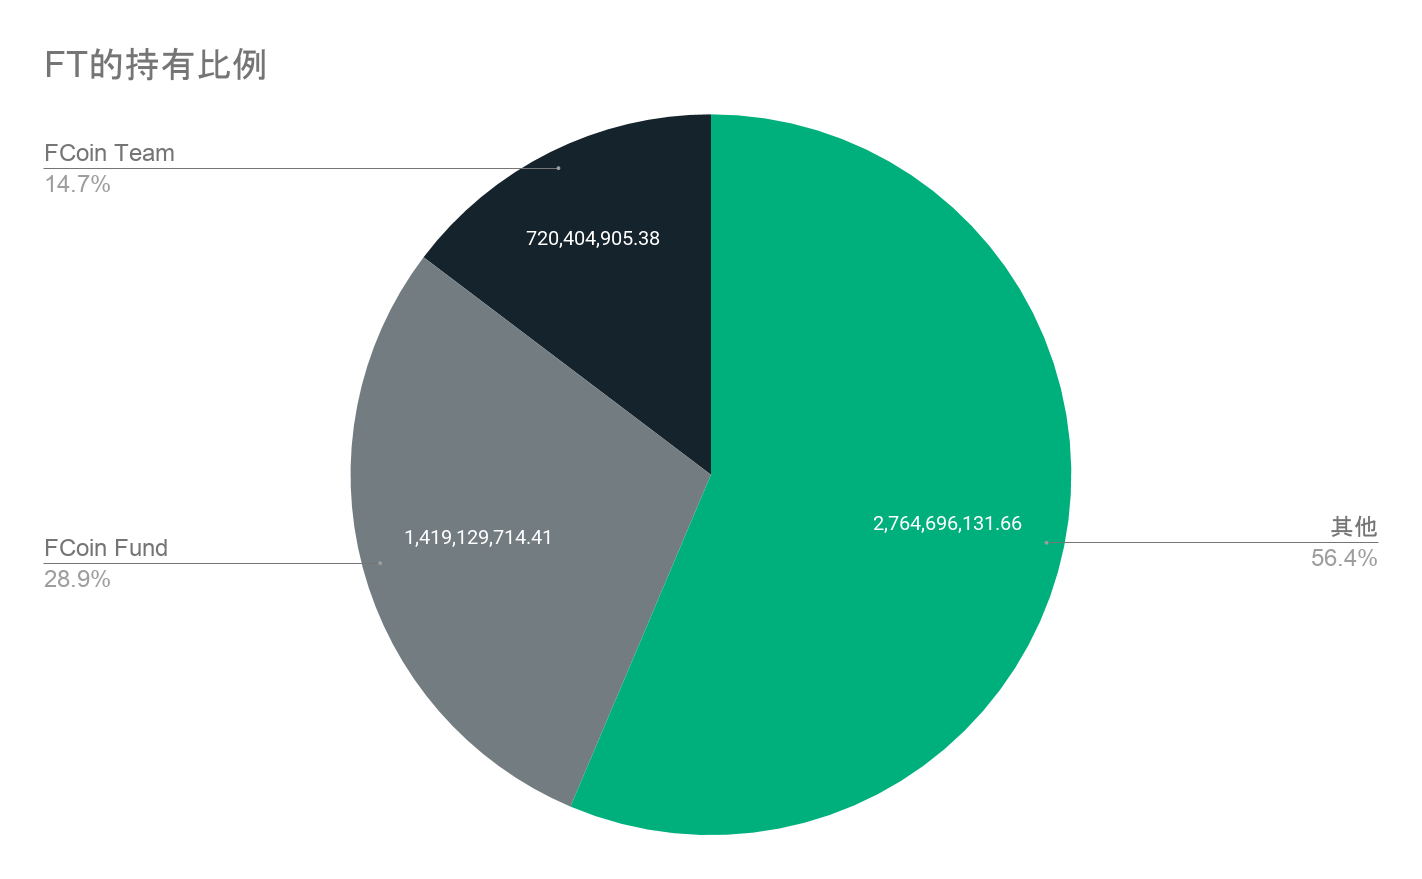
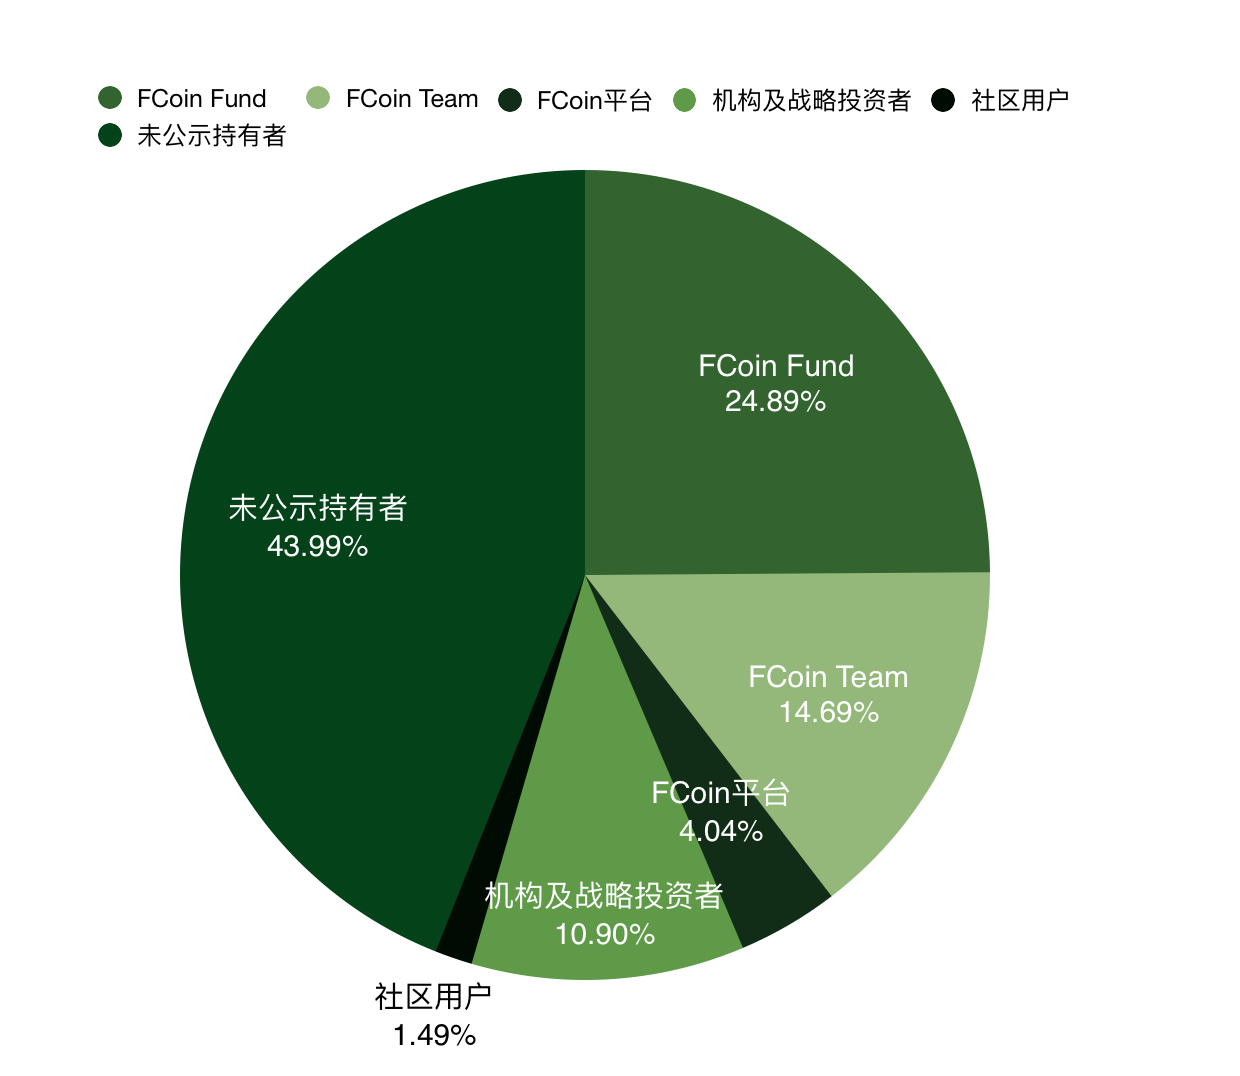
FT保有数のグラフを修正

diff --git a/docs/cn/about-mining.md b/docs/cn/about-mining.md
@@ -267,7 +267,7 @@ FT的发放数量会在投票活动时发布。
 
 ![FT的持有比例](./images/ft-share.png)
 
-*图像中的数据为截止2019年4月末的FT持有数量。
+*图像中的数据为截止2019年6月的FT持有数量。
  - [FCoin创业团队FT锁仓地址](https://etherscan.io/token/0xd37532d304214d588aeeac4c365e8f1d72e2304a?a=0xa51b6001e00879ca95a0f5e77e3e49469c920a7e)
  - [FCoin FundFT锁仓地址](https://etherscan.io/token/0xd37532d304214d588aeeac4c365e8f1d72e2304a?a=0xf6b64d970a9d6c2771bc79a34133d9f4b93990c0)
 
